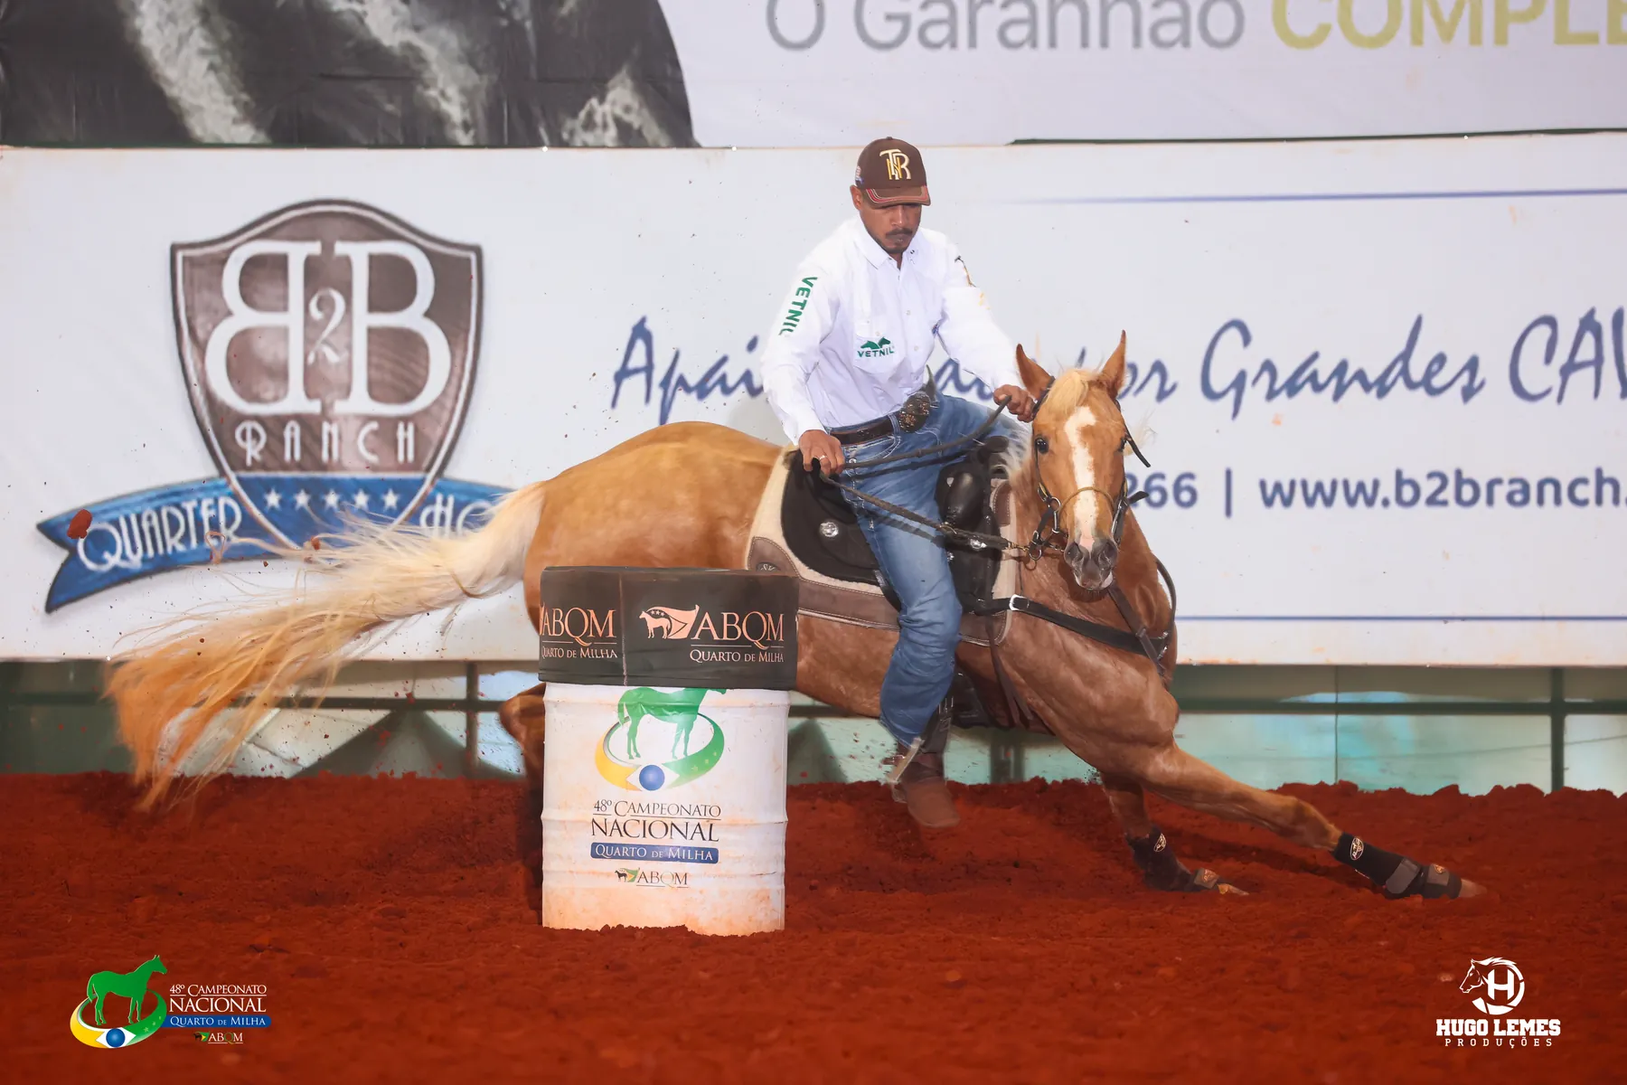
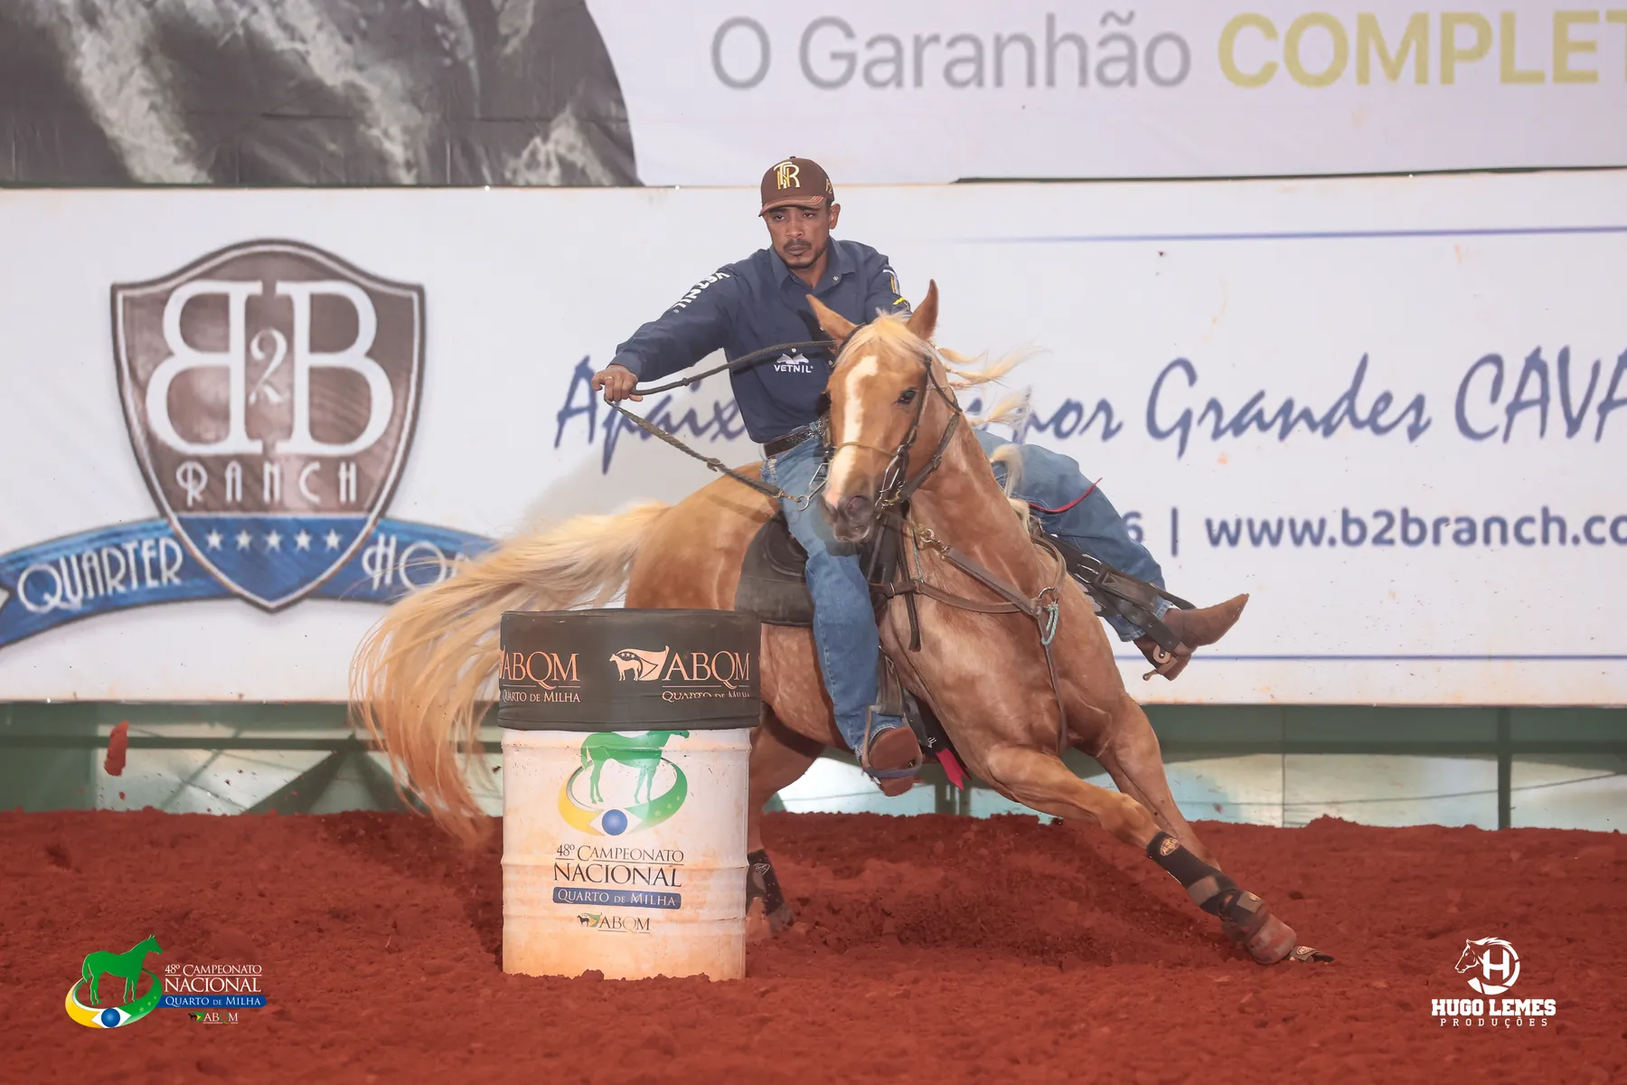
New photos for Quaker Tux Guy, Brave Rolls, Reality Zorrero, Bulla Guy and Anitta French; Atletas headings show only Potros do Futuro and year

diff --git a/index.html b/index.html
@@ -533,14 +533,14 @@ time{font-size:.7rem;letter-spacing:.1em;text-transform:uppercase;color:#67625b}
   </div>
   <div class="mz">
     <figure class="mz-feature mz-stack" id="mzStack">
-      <div class="ph"><img src="assets/mz/frenchmans-bulla.webp" alt="Frenchmans Bulla, palomino, contornando o tambor no Campeonato Nacional ABQM" loading="lazy" decoding="async" width="1494" height="994" data-for="frenchmans-bulla"><img src="assets/mz/hp-stoli-my-jet.webp" alt="HP Stoli My Jet, égua alazã, no piquete" loading="lazy" decoding="async" width="1800" height="1200" data-for="hp-stoli-my-jet"><img src="assets/mz/simply-epic.webp" alt="Simply Epic, égua tordilha, de perfil no gramado" loading="lazy" decoding="async" width="1600" height="1233" data-for="simply-epic"><img src="assets/mz/custom-made-kat.webp" alt="Custom Made Kat, égua alazã, de perfil no gramado" loading="lazy" decoding="async" width="1024" height="682" data-for="custom-made-kat"><img src="assets/mz/three-carat-diamond.webp" alt="Three Carat Diamond contornando o tambor" loading="lazy" decoding="async" width="500" height="407" data-for="three-carat-diamond"><img src="assets/mz/guapa-fortunes.webp" alt="Guapa Fortunes OFV, égua tordilha, galopando" loading="lazy" decoding="async" width="1800" height="1197" data-for="guapa-fortunes"><img src="assets/mz/mended-heart.webp" alt="Mended Heart contornando o tambor no Congresso Brasileiro" loading="lazy" decoding="async" width="1280" height="854" data-for="mended-heart"><img src="assets/mz/magnolia-shady.webp" alt="Magnolia Shady FF, égua palomino, de perfil no gramado" loading="lazy" decoding="async" width="1800" height="1200" data-for="magnolia-shady"><img src="assets/mz/movidas-guy.webp" alt="B2B Movidas Guy, égua castanha, de cabresto" loading="lazy" decoding="async" width="1800" height="1200" data-for="movidas-guy"><img src="assets/mz/ophelia-rolls.webp" alt="B2B Ophelia Rolls, égua alazã, no piquete" loading="lazy" decoding="async" width="1800" height="1200" data-for="ophelia-rolls"><img src="assets/mz/ornella-rolls.webp" alt="B2B Ornella Rolls, égua castanha, de perfil no piquete" loading="lazy" decoding="async" width="1800" height="1200" data-for="ornella-rolls"><img src="assets/mz/reality-zorrero.webp" alt="B2B Reality Zorrero, égua tordilha, montada na pista" loading="lazy" decoding="async" width="1800" height="1200" data-for="reality-zorrero"><img src="assets/mz/secretlover-tux.webp" alt="B2B Secretlover Tux, égua castanha, galopando no piquete" loading="lazy" decoding="async" width="1800" height="1200" data-for="secretlover-tux"><img src="assets/mz/hp-boom-shockalocka.webp" alt="HP Boom Shockalocka, égua alazã, no pasto" loading="lazy" decoding="async" width="1800" height="1200" data-for="hp-boom-shockalocka"><img src="assets/mjp-epic-sis.webp" alt="MJP Epic Sis, égua tordilha, galopando no piquete" loading="lazy" decoding="async" width="1800" height="1200" data-for="mjp-epic-sis"><img src="assets/morganna-rolls.webp" alt="B2B Morganna Rolls, égua palomino, no pasto" loading="lazy" decoding="async" width="1800" height="1197" data-for="morganna-rolls"></div>
+      <div class="ph"><img src="assets/mz/frenchmans-bulla.webp" alt="Frenchmans Bulla, palomino, contornando o tambor no Campeonato Nacional ABQM" loading="lazy" decoding="async" width="1494" height="994" data-for="frenchmans-bulla"><img src="assets/mz/hp-stoli-my-jet.webp" alt="HP Stoli My Jet, égua alazã, no piquete" loading="lazy" decoding="async" width="1800" height="1200" data-for="hp-stoli-my-jet"><img src="assets/mz/simply-epic.webp" alt="Simply Epic, égua tordilha, de perfil no gramado" loading="lazy" decoding="async" width="1600" height="1233" data-for="simply-epic"><img src="assets/mz/custom-made-kat.webp" alt="Custom Made Kat, égua alazã, de perfil no gramado" loading="lazy" decoding="async" width="1024" height="682" data-for="custom-made-kat"><img src="assets/mz/three-carat-diamond.webp" alt="Three Carat Diamond contornando o tambor" loading="lazy" decoding="async" width="500" height="407" data-for="three-carat-diamond"><img src="assets/mz/guapa-fortunes.webp" alt="Guapa Fortunes OFV, égua tordilha, galopando" loading="lazy" decoding="async" width="1800" height="1197" data-for="guapa-fortunes"><img src="assets/mz/mended-heart.webp" alt="Mended Heart contornando o tambor no Congresso Brasileiro" loading="lazy" decoding="async" width="1280" height="854" data-for="mended-heart"><img src="assets/mz/magnolia-shady.webp" alt="Magnolia Shady FF, égua palomino, de perfil no gramado" loading="lazy" decoding="async" width="1800" height="1200" data-for="magnolia-shady"><img src="assets/mz/movidas-guy.webp" alt="B2B Movidas Guy, égua castanha, de cabresto" loading="lazy" decoding="async" width="1800" height="1200" data-for="movidas-guy"><img src="assets/mz/ophelia-rolls.webp" alt="B2B Ophelia Rolls, égua alazã, no piquete" loading="lazy" decoding="async" width="1800" height="1200" data-for="ophelia-rolls"><img src="assets/mz/ornella-rolls.webp" alt="B2B Ornella Rolls, égua castanha, de perfil no piquete" loading="lazy" decoding="async" width="1800" height="1200" data-for="ornella-rolls"><img src="assets/mz/reality-zorrero.webp" alt="B2B Reality Zorrero, égua tordilha, montada na pista" loading="lazy" decoding="async" width="1280" height="853" data-for="reality-zorrero"><img src="assets/mz/secretlover-tux.webp" alt="B2B Secretlover Tux, égua castanha, galopando no piquete" loading="lazy" decoding="async" width="1800" height="1200" data-for="secretlover-tux"><img src="assets/mz/hp-boom-shockalocka.webp" alt="HP Boom Shockalocka, égua alazã, no pasto" loading="lazy" decoding="async" width="1800" height="1200" data-for="hp-boom-shockalocka"><img src="assets/mjp-epic-sis.webp" alt="MJP Epic Sis, égua tordilha, galopando no piquete" loading="lazy" decoding="async" width="1800" height="1200" data-for="mjp-epic-sis"><img src="assets/morganna-rolls.webp" alt="B2B Morganna Rolls, égua palomino, no pasto" loading="lazy" decoding="async" width="1800" height="1197" data-for="morganna-rolls"></div>
       <figcaption id="mzCap"><b>B2B Ophelia Rolls</b><span>Tux N Rolls × Glisten Failas KRB</span></figcaption>
     </figure>
     <ol class="mz-list">
       <li data-mz="movidas-guy"><b>B2B Movidas Guy</b><span>Frenchmans Guy × Docs Little Movida</span><div class="mz-inl"><picture><source media="(max-width: 760px) and (orientation: portrait)" srcset="assets/m/mz-movidas-guy.webp"><img src="assets/mz/movidas-guy.webp" alt="B2B Movidas Guy, égua castanha, de cabresto" loading="lazy" decoding="async" width="1800" height="1200"></picture></div><p>Única matriz no Brasil irmã própria de A Smooth Guy, garanhão com mais de US$ 5 milhões como reprodutor. Mãe de B2B Quaker Tux Guy.</p></li>
       <li data-mz="ophelia-rolls"><b>B2B Ophelia Rolls</b><span>Tux N Rolls × Glisten Failas KRB</span><div class="mz-inl"><picture><source media="(max-width: 760px) and (orientation: portrait)" srcset="assets/m/mz-ophelia-rolls.webp"><img src="assets/mz/ophelia-rolls.webp" alt="B2B Ophelia Rolls, égua alazã, no piquete" loading="lazy" decoding="async" width="1800" height="1200"></picture></div><p>Linhagem King Ranch, pela força de Failas Ambassador. Pontuada pela ABQM; mãe de B2B Anitta French.</p></li>
       <li data-mz="ornella-rolls"><b>B2B Ornella Rolls</b><span>Tux N Rolls</span><div class="mz-inl"><picture><source media="(max-width: 760px) and (orientation: portrait)" srcset="assets/m/mz-ornella-rolls.webp"><img src="assets/mz/ornella-rolls.webp" alt="B2B Ornella Rolls, égua castanha, de perfil no piquete" loading="lazy" decoding="async" width="1800" height="1200"></picture></div><p>Irmã de B2B Noa Carat Rolls, a maior ganhadora de rodeio do Brasil. Uma matriz pensada para produzir atletas.</p></li>
-      <li data-mz="reality-zorrero"><b>B2B Reality Zorrero<em>Também atleta</em></b><span>El Shady Zorrero × Julie Tux Failas B2B</span><div class="mz-inl"><picture><source media="(max-width: 760px) and (orientation: portrait)" srcset="assets/m/mz-reality-zorrero.webp"><img src="assets/mz/reality-zorrero.webp" alt="B2B Reality Zorrero, égua tordilha, montada na pista" loading="lazy" decoding="async" width="1800" height="1200"></picture></div><p>Tordilha, menor tempo de 16.688 s e diversos títulos. Agora também um grande projeto como matriz.</p></li>
+      <li data-mz="reality-zorrero"><b>B2B Reality Zorrero<em>Também atleta</em></b><span>El Shady Zorrero × Julie Tux Failas B2B</span><div class="mz-inl"><picture><source media="(max-width: 760px) and (orientation: portrait)" srcset="assets/m/mz-reality-zorrero.webp"><img src="assets/mz/reality-zorrero.webp" alt="B2B Reality Zorrero, égua tordilha, montada na pista" loading="lazy" decoding="async" width="1280" height="853"></picture></div><p>Tordilha, menor tempo de 16.688 s e diversos títulos. Agora também um grande projeto como matriz.</p></li>
       <li data-mz="secretlover-tux"><b>B2B Secretlover Tux</b><span>Tux N Rolls × Magnolia Shady FF</span><div class="mz-inl"><picture><source media="(max-width: 760px) and (orientation: portrait)" srcset="assets/m/mz-secretlover-tux.webp"><img src="assets/mz/secretlover-tux.webp" alt="B2B Secretlover Tux, égua castanha, galopando no piquete" loading="lazy" decoding="async" width="1800" height="1200"></picture></div><p>Irmã própria de B2B Lovergirl Rolls, a única tríplice coroada nos Três Tambores no Brasil.</p></li>
       <li data-mz="magnolia-shady"><b>Magnolia Shady FF</b><span>Shady Leo × Bifriend Lady FF</span><div class="mz-inl"><picture><source media="(max-width: 760px)" srcset="assets/m/mz-magnolia-shady.webp"><img src="assets/mz/magnolia-shady.webp" alt="Magnolia Shady FF, égua palomino, de perfil no gramado" loading="lazy" decoding="async" width="1800" height="1200"></picture></div><p>Mãe da única tríplice coroada do Brasil, B2B Lovergirl Rolls, e de B2B Madeleine Rolls; seus filhos somam mais de R$ 621 mil em prêmios.</p></li>
       <li data-mz="frenchmans-bulla"><b>Frenchmans Bulla</b><span>Frenchmans Guy</span><div class="mz-inl"><picture><source media="(max-width: 760px)" srcset="assets/m/mz-frenchmans-bulla.webp"><img src="assets/mz/frenchmans-bulla.webp" alt="Frenchmans Bulla, palomino, contornando o tambor no Campeonato Nacional ABQM" loading="lazy" decoding="async" width="1494" height="994"></picture></div><p>Mãe de B2B Morganna Rolls, considerada sua principal filha. Em sociedade: B2B Ranch e Haras Zopone.</p></li>
@@ -565,7 +565,7 @@ time{font-size:.7rem;letter-spacing:.1em;text-transform:uppercase;color:#67625b}
   </div>
   <div class="mz">
     <figure class="mz-feature mz-stack" id="atStack">
-      <div class="ph"><img src="assets/at/oprah-rolls.webp" alt="B2B Oprah Rolls contornando o tambor no Campeonato Heringer Ranch" loading="lazy" decoding="async" width="1800" height="1200" data-for="oprah-rolls"><img src="assets/at/bulla-guy.webp" alt="B2B Bulla Guy, palomino, contornando o tambor" loading="lazy" decoding="async" width="1800" height="1200" data-for="bulla-guy"><img src="assets/at/quaker-tux-guy.webp" alt="B2B Quaker Tux Guy contornando o tambor no Grand Prix" loading="lazy" decoding="async" width="1800" height="1200" data-for="quaker-tux-guy"><img src="assets/at/poseidon-rolls.webp" alt="B2B Poseidon Rolls contornando o tambor" loading="lazy" decoding="async" width="1800" height="1200" data-for="poseidon-rolls"><img src="assets/at/darwin-bar-belle.webp" alt="B2B Darwin Bar Belle, potro, no piquete" loading="lazy" decoding="async" width="1800" height="1200" data-for="darwin-bar-belle"><img src="assets/at/bullet-fool.webp" alt="B2B Bullet Fool, tordilho, contornando o tambor" loading="lazy" decoding="async" width="1800" height="1200" data-for="bullet-fool"><img src="assets/at/brave-rolls.webp" alt="B2B Brave Rolls contornando o tambor" loading="lazy" decoding="async" width="1600" height="1066" data-for="brave-rolls"><img src="assets/at/bethania-fiesta.webp" alt="B2B Bethania Fiesta contornando o tambor" loading="lazy" decoding="async" width="1600" height="1066" data-for="bethania-fiesta"><img src="assets/at/anitta-french.webp" alt="B2B Anitta French, palomino, contornando o tambor" loading="lazy" decoding="async" width="1800" height="1200" data-for="anitta-french"><img src="assets/at/tapdancer-rolls.webp" alt="B2B Tapdancer Rolls, tordilha, contornando o tambor no Heringer Ranch" loading="lazy" decoding="async" width="1800" height="1200" data-for="tapdancer-rolls"><img src="assets/at/tiberius-rolls.webp" alt="B2B Tiberius Rolls contornando o tambor na Copa" loading="lazy" decoding="async" width="1280" height="853" data-for="tiberius-rolls"><img src="assets/at/tristan-streak.webp" alt="B2B Tristan Streak, tordilho, contornando o tambor no GP" loading="lazy" decoding="async" width="1280" height="854" data-for="tristan-streak"></div>
+      <div class="ph"><img src="assets/at/oprah-rolls.webp" alt="B2B Oprah Rolls contornando o tambor no Campeonato Heringer Ranch" loading="lazy" decoding="async" width="1800" height="1200" data-for="oprah-rolls"><img src="assets/at/bulla-guy.webp" alt="B2B Bulla Guy, palomino, contornando o tambor" loading="lazy" decoding="async" width="1800" height="1200" data-for="bulla-guy"><img src="assets/at/quaker-tux-guy.webp" alt="B2B Quaker Tux Guy contornando o tambor no Grand Prix" loading="lazy" decoding="async" width="1800" height="1200" data-for="quaker-tux-guy"><img src="assets/at/poseidon-rolls.webp" alt="B2B Poseidon Rolls contornando o tambor" loading="lazy" decoding="async" width="1800" height="1200" data-for="poseidon-rolls"><img src="assets/at/darwin-bar-belle.webp" alt="B2B Darwin Bar Belle, potro, no piquete" loading="lazy" decoding="async" width="1800" height="1200" data-for="darwin-bar-belle"><img src="assets/at/bullet-fool.webp" alt="B2B Bullet Fool, tordilho, contornando o tambor" loading="lazy" decoding="async" width="1800" height="1200" data-for="bullet-fool"><img src="assets/at/brave-rolls.webp" alt="B2B Brave Rolls contornando o tambor" loading="lazy" decoding="async" width="1280" height="854" data-for="brave-rolls"><img src="assets/at/bethania-fiesta.webp" alt="B2B Bethania Fiesta contornando o tambor" loading="lazy" decoding="async" width="1600" height="1066" data-for="bethania-fiesta"><img src="assets/at/anitta-french.webp" alt="B2B Anitta French, palomino, contornando o tambor" loading="lazy" decoding="async" width="1800" height="1200" data-for="anitta-french"><img src="assets/at/tapdancer-rolls.webp" alt="B2B Tapdancer Rolls, tordilha, contornando o tambor no Heringer Ranch" loading="lazy" decoding="async" width="1800" height="1200" data-for="tapdancer-rolls"><img src="assets/at/tiberius-rolls.webp" alt="B2B Tiberius Rolls contornando o tambor na Copa" loading="lazy" decoding="async" width="1280" height="853" data-for="tiberius-rolls"><img src="assets/at/tristan-streak.webp" alt="B2B Tristan Streak, tordilho, contornando o tambor no GP" loading="lazy" decoding="async" width="1280" height="854" data-for="tristan-streak"></div>
       <figcaption id="atCap"><b>B2B Quaker Tux Guy</b><span>Tux N Rolls × B2B Movidas Guy</span></figcaption>
     </figure>
     <div>
@@ -573,28 +573,25 @@ time{font-size:.7rem;letter-spacing:.1em;text-transform:uppercase;color:#67625b}
       <li data-mz="quaker-tux-guy"><b>B2B Quaker Tux Guy</b><span>Tux N Rolls × B2B Movidas Guy</span><div class="mz-inl"><picture><source media="(max-width: 760px)" srcset="assets/m/at-quaker-tux-guy.webp"><img src="assets/at/quaker-tux-guy.webp" alt="B2B Quaker Tux Guy contornando o tambor no Grand Prix" loading="lazy" decoding="async" width="1800" height="1200"></picture></div><p>Títulos no Congresso Brasileiro, Grand Slam Cutter, PF e Copa WV. Menor tempo de 16.656 s.</p></li>
       <li data-mz="poseidon-rolls"><b>B2B Poseidon Rolls</b><span>Tux N Rolls × Glisten Failas KRB</span><div class="mz-inl"><picture><source media="(max-width: 760px)" srcset="assets/m/at-poseidon-rolls.webp"><img src="assets/at/poseidon-rolls.webp" alt="B2B Poseidon Rolls contornando o tambor" loading="lazy" decoding="async" width="1800" height="1200"></picture></div><p>Diversos tempos na casa dos 16 segundos, com constância nas competições.</p></li>
       <li data-mz="oprah-rolls"><b>B2B Oprah Rolls</b><div class="mz-inl"><picture><source media="(max-width: 760px)" srcset="assets/m/at-oprah-rolls.webp"><img src="assets/at/oprah-rolls.webp" alt="B2B Oprah Rolls contornando o tambor no Campeonato Heringer Ranch" loading="lazy" decoding="async" width="1800" height="1200"></picture></div><p>Em pista pelo B2B Ranch nos Três Tambores.</p></li>
+      <li data-mz="tapdancer-rolls"><b>B2B Tapdancer Rolls</b><span>Tux N Rolls × Guapa Fortunes OFV</span><div class="mz-inl"><picture><source media="(max-width: 760px)" srcset="assets/m/at-tapdancer-rolls.webp"><img src="assets/at/tapdancer-rolls.webp" alt="B2B Tapdancer Rolls, tordilha, contornando o tambor no Heringer Ranch" loading="lazy" decoding="async" width="1800" height="1200"></picture></div><p>1º lugar no GP ABQM 2D do Heringer Ranch · 17.473 s.</p></li>
+      <li data-mz="tiberius-rolls"><b>B2B Tiberius Rolls</b><span>B2B Lucius Ta Fame × Three Carat Diamond</span><div class="mz-inl"><picture><source media="(max-width: 760px)" srcset="assets/m/at-tiberius-rolls.webp"><img src="assets/at/tiberius-rolls.webp" alt="B2B Tiberius Rolls contornando o tambor na Copa" loading="lazy" decoding="async" width="1280" height="853"></picture></div><p>2º lugar na Aberta Sênior 2D do Heringer Ranch · 17.405 s.</p></li>
+      <li data-mz="tristan-streak"><b>B2B Tristan Streak</b><span>Tux N Rolls × Miss Victory Fly LW</span><div class="mz-inl"><picture><source media="(max-width: 760px)" srcset="assets/m/at-tristan-streak.webp"><img src="assets/at/tristan-streak.webp" alt="B2B Tristan Streak, tordilho, contornando o tambor no GP" loading="lazy" decoding="async" width="1280" height="854"></picture></div><p>Tordilho que faz história como atleta, e um lindo garanhão.</p></li>
       </ol>
-      <h3 class="mz-sub">Geração D · Potros do Futuro 2028</h3>
+      <h3 class="mz-sub">Potros do Futuro 2028</h3>
       <ul class="mz-list pf">
       <li data-mz="darwin-bar-belle"><b>B2B Darwin Bar Belle</b><span>B2B Lucius Ta Fame × Mended Heart</span><div class="mz-inl"><picture><source media="(max-width: 760px)" srcset="assets/m/at-darwin-bar-belle.webp"><img src="assets/at/darwin-bar-belle.webp" alt="B2B Darwin Bar Belle, potro, no piquete" loading="lazy" decoding="async" width="1800" height="1200"></picture></div><p>Potro do Futuro 2028.</p></li>
       </ul>
-      <h3 class="mz-sub">Geração B · Potros do Futuro 2026</h3>
+      <h3 class="mz-sub">Potros do Futuro 2026</h3>
       <ul class="mz-list pf">
-      <li data-mz="brave-rolls"><b>B2B Brave Rolls</b><span>B2B Lucius Ta Fame × Crystal Mine OFV</span><div class="mz-inl"><picture><source media="(max-width: 760px)" srcset="assets/m/at-brave-rolls.webp"><img src="assets/at/brave-rolls.webp" alt="B2B Brave Rolls contornando o tambor" loading="lazy" decoding="async" width="1600" height="1066"></picture></div><p>Top 3 na final do Potro do Futuro ABQM 2026, na casa dos 16 segundos.</p></li>
+      <li data-mz="brave-rolls"><b>B2B Brave Rolls</b><span>B2B Lucius Ta Fame × Crystal Mine OFV</span><div class="mz-inl"><picture><source media="(max-width: 760px)" srcset="assets/m/at-brave-rolls.webp"><img src="assets/at/brave-rolls.webp" alt="B2B Brave Rolls contornando o tambor" loading="lazy" decoding="async" width="1280" height="854"></picture></div><p>Top 3 na final do Potro do Futuro ABQM 2026, na casa dos 16 segundos.</p></li>
       <li data-mz="bulla-guy"><b>B2B Bulla Guy</b><div class="mz-inl"><picture><source media="(max-width: 760px)" srcset="assets/m/at-bulla-guy.webp"><img src="assets/at/bulla-guy.webp" alt="B2B Bulla Guy, palomino, contornando o tambor" loading="lazy" decoding="async" width="1800" height="1200"></picture></div><p>2º lugar na Final Potro do Futuro do VII Campeonato Heringer Ranch · 17.103 s.</p></li>
       <li data-mz="bullet-fool"><b>B2B Bullet Fool</b><span>Tux N Rolls × Guapa Fortunes OFV</span><div class="mz-inl"><picture><source media="(max-width: 760px)" srcset="assets/m/at-bullet-fool.webp"><img src="assets/at/bullet-fool.webp" alt="B2B Bullet Fool, tordilho, contornando o tambor" loading="lazy" decoding="async" width="1800" height="1200"></picture></div><p>2º lugar na classificatória do Potro do Futuro no Heringer Ranch · 17.082 s.</p></li>
       <li data-mz="bethania-fiesta"><b>B2B Bethania Fiesta</b><span>Frenchmans Guy × B2B Princess Fiesta</span><div class="mz-inl"><picture><source media="(max-width: 760px)" srcset="assets/m/at-bethania-fiesta.webp"><img src="assets/at/bethania-fiesta.webp" alt="B2B Bethania Fiesta contornando o tambor" loading="lazy" decoding="async" width="1600" height="1066"></picture></div><p>Papel raro: filha direta de Frenchmans Guy.</p></li>
       <li><b>B2B Bulla Buy</b><p>Classificada no Potro do Futuro do Heringer Ranch · 17.837 s.</p></li>
       </ul>
-      <h3 class="mz-sub">Geração A · Potros do Futuro 2025</h3>
+      <h3 class="mz-sub">Potros do Futuro 2025</h3>
       <ul class="mz-list pf">
       <li data-mz="anitta-french"><b>B2B Anitta French</b><span>Frenchmans Guy × B2B Ophelia Rolls</span><div class="mz-inl"><picture><source media="(max-width: 760px)" srcset="assets/m/at-anitta-french.webp"><img src="assets/at/anitta-french.webp" alt="B2B Anitta French, palomino, contornando o tambor" loading="lazy" decoding="async" width="1800" height="1200"></picture></div><p>Potro do Futuro 2025, na casa dos 17 segundos.</p></li>
-      </ul>
-      <h3 class="mz-sub">Geração T</h3>
-      <ul class="mz-list pf">
-      <li data-mz="tapdancer-rolls"><b>B2B Tapdancer Rolls</b><span>Tux N Rolls × Guapa Fortunes OFV</span><div class="mz-inl"><picture><source media="(max-width: 760px)" srcset="assets/m/at-tapdancer-rolls.webp"><img src="assets/at/tapdancer-rolls.webp" alt="B2B Tapdancer Rolls, tordilha, contornando o tambor no Heringer Ranch" loading="lazy" decoding="async" width="1800" height="1200"></picture></div><p>1º lugar no GP ABQM 2D do Heringer Ranch · 17.473 s.</p></li>
-      <li data-mz="tiberius-rolls"><b>B2B Tiberius Rolls</b><span>B2B Lucius Ta Fame × Three Carat Diamond</span><div class="mz-inl"><picture><source media="(max-width: 760px)" srcset="assets/m/at-tiberius-rolls.webp"><img src="assets/at/tiberius-rolls.webp" alt="B2B Tiberius Rolls contornando o tambor na Copa" loading="lazy" decoding="async" width="1280" height="853"></picture></div><p>2º lugar na Aberta Sênior 2D do Heringer Ranch · 17.405 s.</p></li>
-      <li data-mz="tristan-streak"><b>B2B Tristan Streak</b><span>Tux N Rolls × Miss Victory Fly LW</span><div class="mz-inl"><picture><source media="(max-width: 760px)" srcset="assets/m/at-tristan-streak.webp"><img src="assets/at/tristan-streak.webp" alt="B2B Tristan Streak, tordilho, contornando o tambor no GP" loading="lazy" decoding="async" width="1280" height="854"></picture></div><p>Tordilho que faz história como atleta, e um lindo garanhão.</p></li>
       </ul>
     </div>
   </div>
